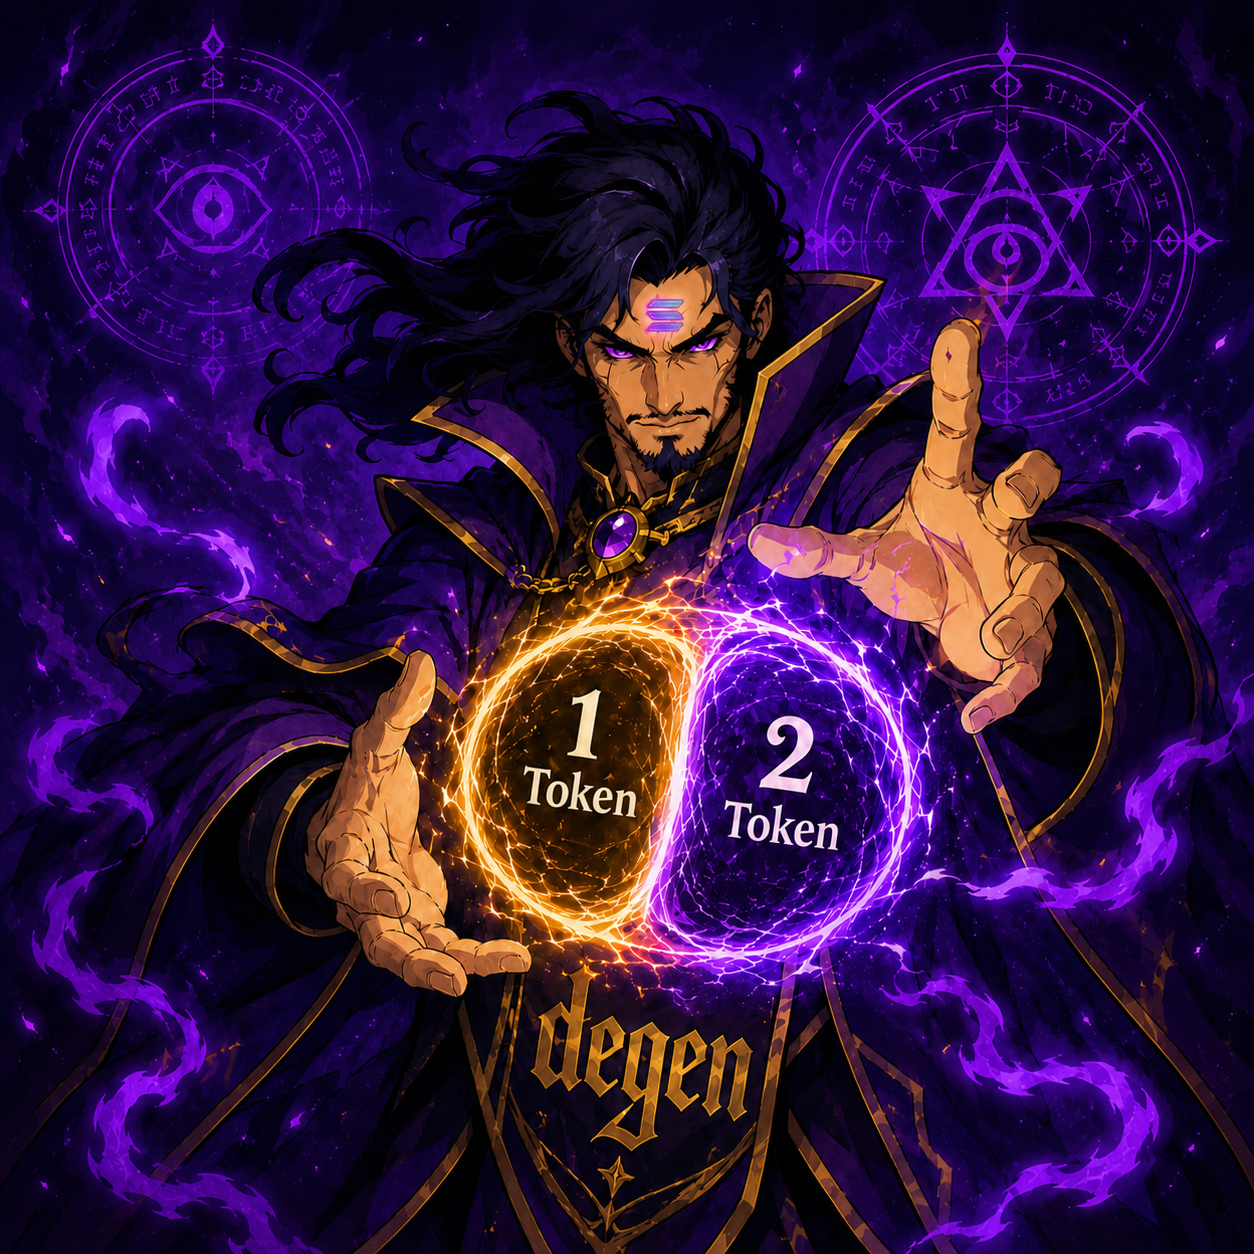
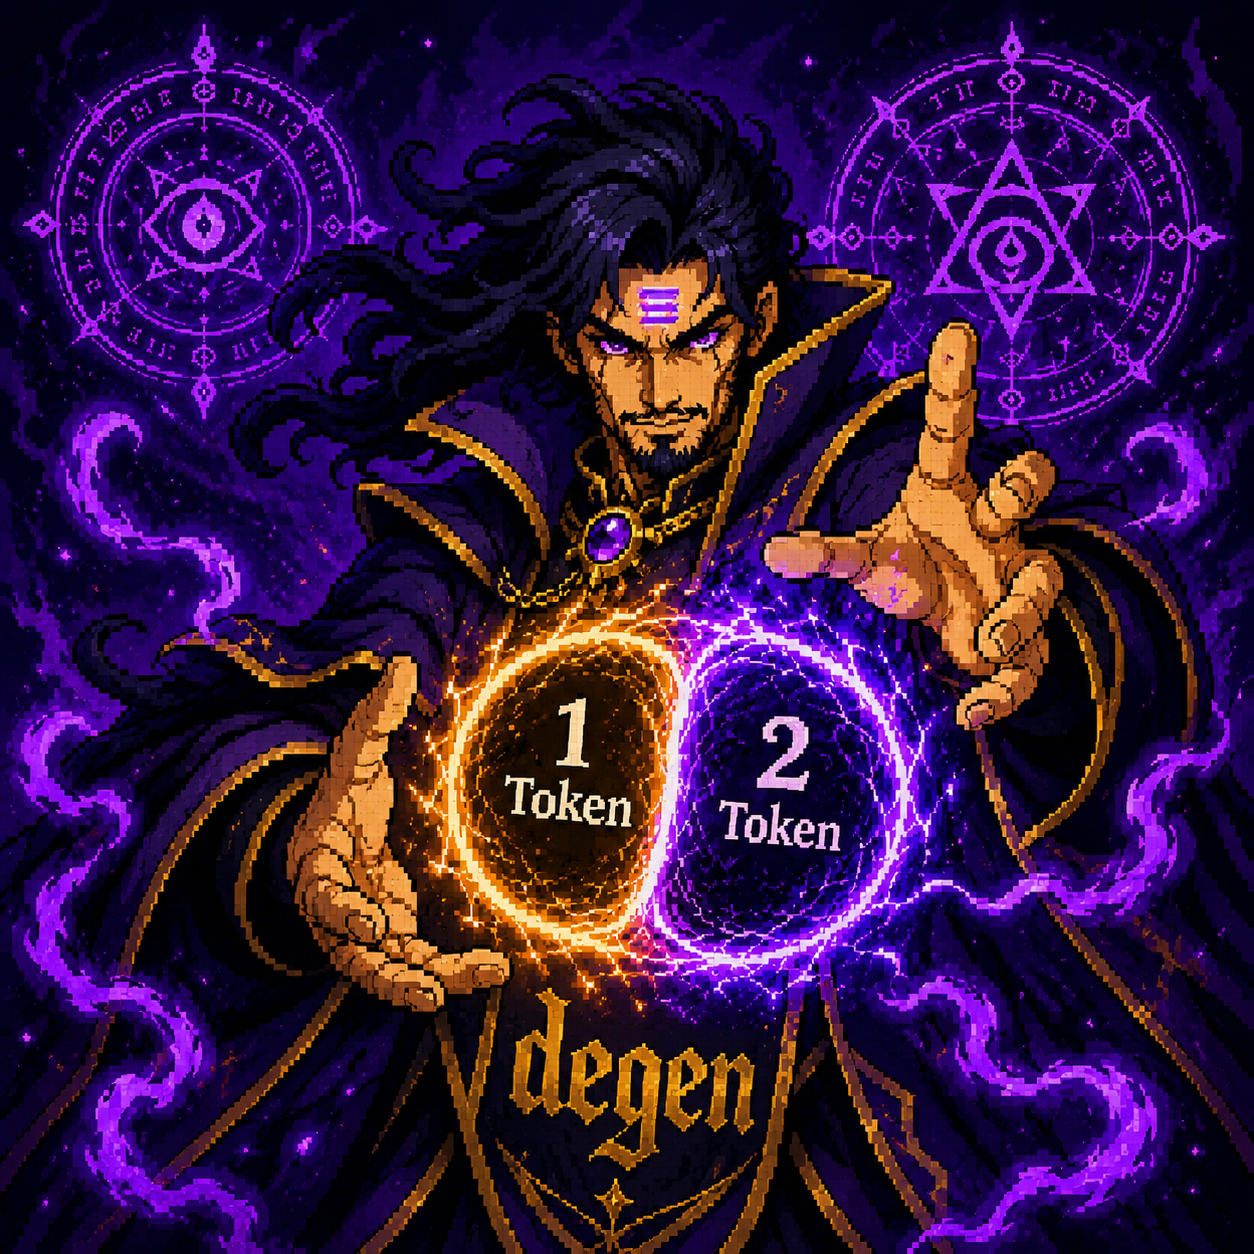
added new buttons / api keys

diff --git a/web/styles.css b/web/styles.css
@@ -697,6 +697,40 @@ summary {
   gap: 10px;
 }
 
+.social-links {
+  display: flex;
+  align-items: center;
+  gap: 8px;
+}
+
+.social-link {
+  display: inline-grid;
+  place-items: center;
+  min-width: 38px;
+  min-height: 38px;
+  padding: 0 10px;
+  border: 1px solid rgb(168 85 247 / 34%);
+  border-radius: 8px;
+  background: rgb(18 11 32 / 92%);
+  color: #e8ddf4;
+  font-size: 12px;
+  font-weight: 900;
+  text-decoration: none;
+  white-space: nowrap;
+}
+
+.social-link:hover {
+  border-color: rgb(103 232 249 / 55%);
+  color: #d8f5ff;
+}
+
+.buy-now-link {
+  min-width: 92px;
+  border-color: rgb(241 91 181 / 44%);
+  background: linear-gradient(135deg, #c084fc, #a855f7 52%, #f15bb5);
+  color: #fff7ff;
+}
+
 .ghost-link {
   display: inline-grid;
   place-items: center;
@@ -930,6 +964,17 @@ summary {
     align-items: stretch;
     flex-direction: column;
     width: 100%;
+  }
+
+  .social-links {
+    display: grid;
+    grid-template-columns: repeat(4, minmax(0, 1fr));
+    width: 100%;
+  }
+
+  .social-link,
+  .buy-now-link {
+    min-width: 0;
   }
 
   .controls,

diff --git a/web/index.html b/web/index.html
@@ -21,6 +21,12 @@
           </div>
         </div>
         <div class="topbar-actions">
+          <nav class="social-links" aria-label="DegenMixer links">
+            <a class="social-link" href="#" aria-label="DegenMixer X">X</a>
+            <a class="social-link" href="#" aria-label="DegenMixer Telegram">TG</a>
+            <a class="social-link" href="#" aria-label="DegenMixer DexScreener">DEX</a>
+            <a class="social-link buy-now-link" href="#" aria-label="Buy DegenMixer now">Buy Now</a>
+          </nav>
           <a class="ghost-link" href="/hybrid.html">Mixer Studio</a>
           <div class="status-panel">
             <span class="pulse" aria-hidden="true"></span>

diff --git a/tests/test_scoring.py b/tests/test_scoring.py
@@ -4,6 +4,7 @@ import unittest
 
 from axiom_scanner.analysis.narratives import generate_narratives, normalize_og_memecoins
 from axiom_scanner.analysis.scoring import rank_tokens
+from axiom_scanner.analysis.wavespeed_hybrid import HybridImageError, should_try_next_key
 from axiom_scanner.config import ScannerConfig
 from axiom_scanner.models import TokenSnapshot
 from axiom_scanner.sources.dexscreener import _passes_basic_filters
@@ -120,6 +121,15 @@ class ScoringTests(unittest.TestCase):
 
         self.assertEqual(len(narratives), 1)
         self.assertIn("trend_image_url", narratives[0])
+
+    def test_wavespeed_fallback_handles_quota_rejections(self) -> None:
+        error = HybridImageError(
+            "WaveSpeed did not return an output image: insufficient balance",
+            code="provider_rejected",
+            status=502,
+        )
+
+        self.assertTrue(should_try_next_key(error))
 
 
 if __name__ == "__main__":

diff --git a/axiom_scanner/analysis/wavespeed_hybrid.py b/axiom_scanner/analysis/wavespeed_hybrid.py
@@ -270,7 +270,7 @@ def get_wavespeed_api_keys() -> list[str]:
 
 
 def should_try_next_key(exc: HybridImageError) -> bool:
-    if exc.code not in {"wavespeed_error"}:
+    if exc.code not in {"wavespeed_error", "provider_rejected"}:
         return False
 
     message = str(exc).lower()